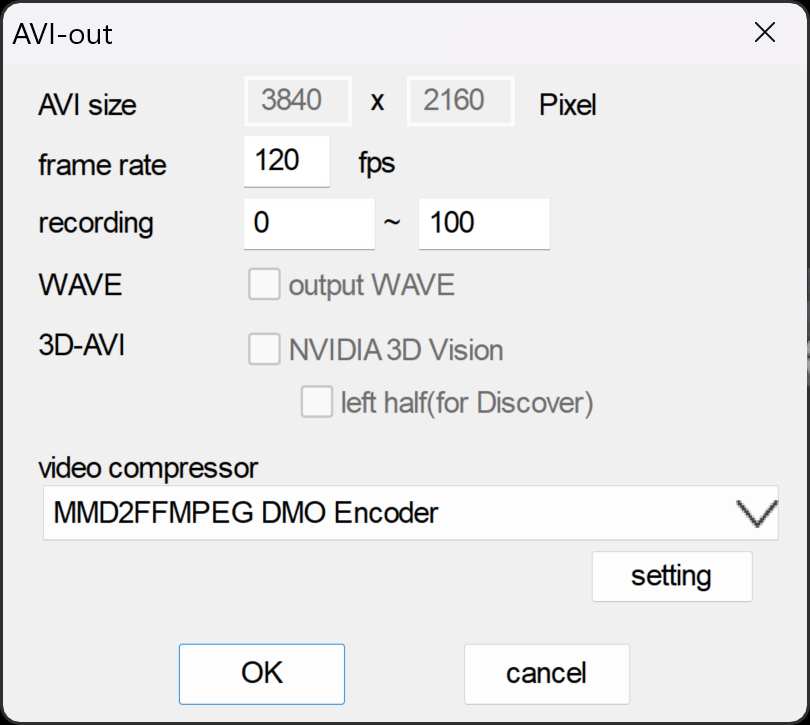
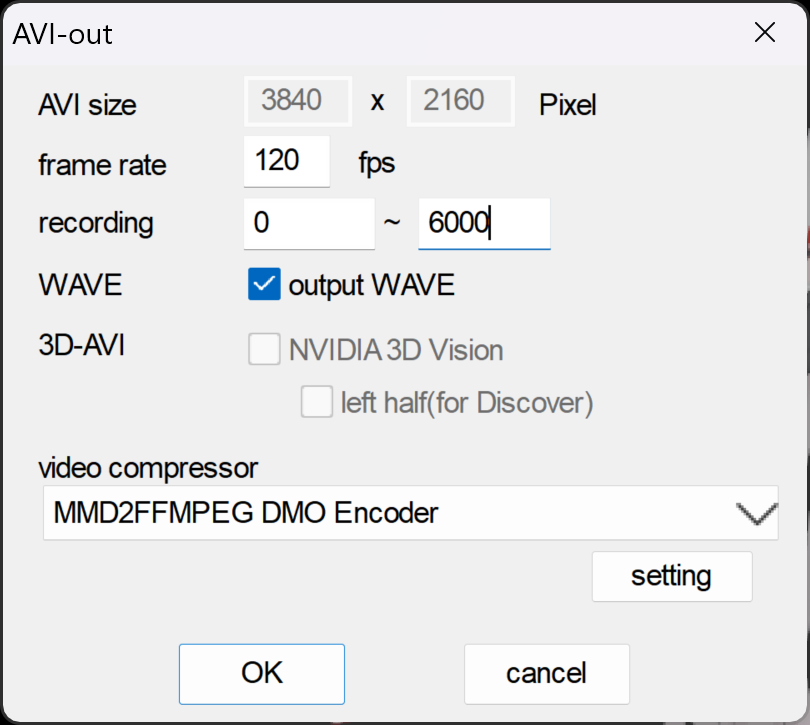
docs: refresh release screenshots

diff --git a/README.md b/README.md
@@ -128,7 +128,7 @@ This creates `release\MMD2FFMPEG-x64\` and `release\MMD2FFMPEG-x64.zip`. Upload 
 
 3. Open **Detailed settings**, configure the encoder, and use **Test encoder**.
 
-<img src="imgs/MMD2FFMPEG詳細設定介面_EN.png" alt="MMD2FFMPEG encoder settings (English)" width="500">
+<img src="imgs/MMD2FFMPEG詳細設定介面_EN.jpg" alt="MMD2FFMPEG encoder settings (English)" width="500">
 
 4. Save or apply only after the test passes.
 5. If audio is required, enable MMD WAV/audio output and start export from frame **0**.

diff --git a/README_TW.md b/README_TW.md
@@ -128,7 +128,7 @@ MMD2FFMPEG 會從 `PATH` 執行 `ffmpeg.exe`，不需也不應設定寫死的 FF
 
 3. 開啟 **詳細設定**，調整編碼選項並按 **測試編碼**。
 
-<img src="imgs/MMD2FFMPEG詳細設定介面_TW.png" alt="MMD2FFMPEG 編碼器詳細設定（繁體中文）" width="500">
+<img src="imgs/MMD2FFMPEG詳細設定介面_TW.jpg" alt="MMD2FFMPEG 編碼器詳細設定（繁體中文）" width="500">
 
 4. 測試通過後再儲存或套用設定。
 5. 若需要音訊，開啟 MMD 的 WAV／音訊輸出，並從**第 0 幀**開始輸出。